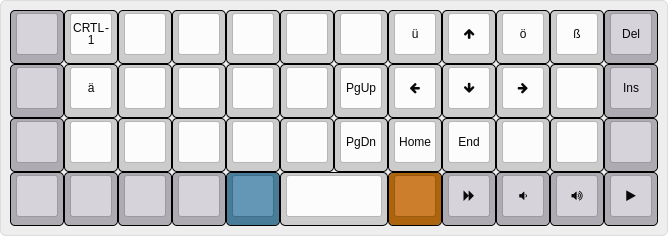
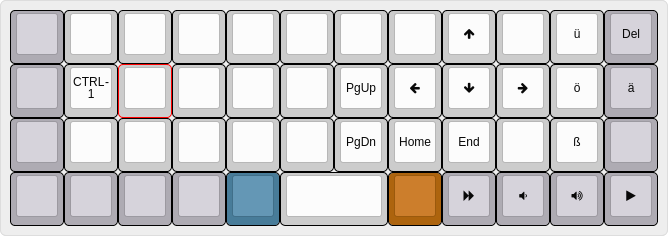
layout improvements

diff --git a/keyboards/planck/keymaps/fehmer/keymap.c b/keyboards/planck/keymaps/fehmer/keymap.c
@@ -40,12 +40,12 @@ const uint16_t PROGMEM keymaps[][MATRIX_ROWS][MATRIX_COLS] = {
 
 /* Qwerty
  * ,-----------------------------------------------------------------------------------.
- * | Esc  |  Q   |   W  |   E  |   R  |   T  |   Z  |   U  |   I  |   O  |   P  | Bksp |
+ * | Esc  |   Q  |   W  |   E  |   R  |   T  |   Z  |   U  |   I  |   O  |   P  | Bksp |
  * |------+------+------+------+------+-------------+------+------+------+------+------|
- * | Tab  |   A  |   S  |   D  |   F  |   G  |   H  |   J  |   K  |  L   |   +  |  #   |
+ * | Tab  |   A  |   S  |   D  |   F  |   G  |   H  |   J  |   K  |   L  |   +  |  #   |
  * |------+------+------+------+------+------|------+------+------+------+------+------|
  * | Shift|   Y  |   X  |   C  |   V  |   B  |   N  |   M  |   ,  |   .  |   -  |Enter |
- * |------+------+------+------+------+------+------+------+------+------+------+------|
+ * |------+------0+------+------+------+------+------+------+------+------+------+------|
  * | Ctrl|ShftAlt| Gui  | Alt  |Lower |    Space    |Raise |AltGr | Gui  |  Fn  | Ctrl |
  * `-----------------------------------------------------------------------------------'
  */
@@ -57,25 +57,25 @@ LT(_FN, KC_TAB), KC_A,    KC_S,     KC_D,     KC_F,    KC_G,    KC_H,    KC_J,  
 ),
 /* Lower
  * ,-----------------------------------------------------------------------------------.
- * |  ^   |  F7  |  F8  |  F9  |  F12 |      |      |   7  |   8  |   9  |   ?  |  Del |
+ * |  ^   |  F7  |  F8  |  F9  |  F12 |      |      |   7  |   8  |   9  |   =  |  Del |
  * |------+------+------+------+------+-------------+------+------+------+------+------|
  * |      |  F4  |  F5  |  F6  |  F11 |      |      |   4  |   5  |   6  |      |  Ins |
  * |------+------+------+------+------+------|------+------+------+------+------+------|
  * |      |  F1  |  F2  |  F3  |  F10 |      |      |   1  |   2  |   3  |      |      |
  * |------+------+------+------+------+------+------+------+------+------+------+------|
- * |      | Print|Scroll|Pause |      |             |   0  |   ,  |   .  |      |      |
+ * |      |      |      |      |      |             |   0  |   ,  |   .  |      |      |
  * `-----------------------------------------------------------------------------------'
  */
 [_LOWER] = LAYOUT_planck_grid(
-    KC_GRV,  KC_F7,   KC_F8,   KC_F9,   KC_F12,  _______, _______,     KC_7,    KC_8,    KC_9,   S(KC_MINS), KC_DEL,
+    KC_GRV,  KC_F7,   KC_F8,   KC_F9,   KC_F12,  _______, _______,     KC_7,    KC_8,    KC_9,   KC_RPRN,    _______,
     _______, KC_F4,   KC_F5,   KC_F6,   KC_F11,  _______, _______,     KC_4,    KC_5,    KC_6,   _______,    KC_INS,
     _______, KC_F1,   KC_F2,   KC_F3,   KC_F10,  _______, _______,     KC_1,    KC_2,    KC_3,   _______,    _______,
-    _______, KC_PSCR, KC_SLCK, KC_PAUS, _______, _______, _______,     KC_0,    KC_COMM, KC_DOT, _______,    _______
+    _______, _______, _______, _______, _______, _______, _______,     KC_0,    KC_COMM, KC_DOT, _______,    _______
 ),
 
 /* Raise
  * ,-----------------------------------------------------------------------------------.
- * |   °  |   !  |   "  |   §  |   $  |   %  |   &  |   /  |   (  |   )  |   =  |      |
+ * |   °  |   !  |   "  |   §  |   $  |   %  |   &  |   /  |   (  |   )  |   ?  |      |
  * |------+------+------+------+------+-------------+------+------+------+------+------|
  * |      |      |      |      |      |      |      |      |   {  |   }  |   ´  |   \  |
  * |------+------+------+------+------+------+------+------+------+------+------+------|
@@ -85,7 +85,7 @@ LT(_FN, KC_TAB), KC_A,    KC_S,     KC_D,     KC_F,    KC_G,    KC_H,    KC_J,  
  * `-----------------------------------------------------------------------------------'
  */
 [_RAISE] = LAYOUT_planck_grid(
-    S(KC_GRV), KC_EXLM,       KC_AT,   KC_HASH, KC_DLR,  KC_PERC, KC_CIRC, KC_AMPR, KC_ASTR,    KC_LPRN,    KC_RPRN, _______,
+    S(KC_GRV), KC_EXLM,       KC_AT,   KC_HASH, KC_DLR,  KC_PERC, KC_CIRC, KC_AMPR, KC_ASTR,    KC_LPRN,    S(KC_MINS), _______,
     _______,   _______,       _______, _______, _______, _______, _______, _______, ALGR(KC_7), ALGR(KC_0), KC_EQL,  ALGR(KC_MINS),
     _______,   ALGR(KC_NUBS), _______, _______, _______, _______, _______, _______, ALGR(KC_8), ALGR(KC_9), _______, _______,
     _______,   _______,       _______, _______, _______, _______, _______, _______, KC_NUBS,    S(KC_NUBS), _______, _______
@@ -93,20 +93,20 @@ LT(_FN, KC_TAB), KC_A,    KC_S,     KC_D,     KC_F,    KC_G,    KC_H,    KC_J,  
 
 /* FN
  * ,-----------------------------------------------------------------------------------.
- * |      | CTL-1|      |      |      |      |      |   ü  |  up  |   ö  |   ß  |  Del |
+ * |      |      |      |      |      |      |      |      |  up  |      |   ü  |  Del |
  * |------+------+------+------+------+-------------+------+------+------+------+------|
- * |      |   ä  |      |      |      |      | PgUp | Left | Down | Right|      |  Ins |
+ * |      | CTL-1|      |      |      |      | PgUp | Left | Down | Right|   ö  |  ä   |
  * |------+------+------+------+------+------|------+------+------+------+------+------|
- * |      |      |      |      |      |      | PgDn | Home | End  |      |      |      |
+ * |      |      |      |      |      |      | PgDn | Home | End  |      |   ß  |      |
  * |------+------+------+------+------+------+------+------+------+------+------+------|
- * |      |      |      |      |      |             |      | Next | Vol- | Vol+ | Play |
+ * |      | Print|Scroll|Pause |      |             |      | Next | Vol- | Vol+ | Play |
  * `-----------------------------------------------------------------------------------'
  */
 [_FN] = LAYOUT_planck_grid(
-    _______, C(KC_1), _______, _______, _______, _______, _______, KC_LBRC, KC_UP,   KC_SCLN,  KC_MINS, KC_DEL,
-    _______, KC_QUOT, _______, _______, _______, _______, KC_PGUP, KC_LEFT, KC_DOWN, KC_RIGHT, _______, KC_INS,
-    _______, _______, _______, _______, _______, _______, KC_PGDN, KC_HOME, KC_END,  _______,  _______, _______,
-    _______, _______, _______, _______, _______, _______, _______, _______, KC_MNXT, KC_VOLD,  KC_VOLU, KC_MPLY
+    _______, _______, _______, _______, _______, _______, _______, _______, KC_UP,   _______ ,  KC_LBRC, KC_DEL,
+    _______, C(KC_1), _______, _______, _______, _______, KC_PGUP, KC_LEFT, KC_DOWN, KC_RIGHT,  KC_SCLN, KC_QUOT,
+    _______, _______, _______, _______, _______, _______, KC_PGDN, KC_HOME, KC_END,  _______ ,  KC_MINS, _______,
+    _______, KC_PSCR, KC_SLCK, KC_PAUS, _______, _______, _______, _______, KC_MNXT, KC_VOLD ,  KC_VOLU, KC_MPLY
 ),
 
 /* Adjust (Lower + Raise)
@@ -145,5 +145,3 @@ bool process_record_user(uint16_t keycode, keyrecord_t *record) {
   }
   return true;
 }
-
-
